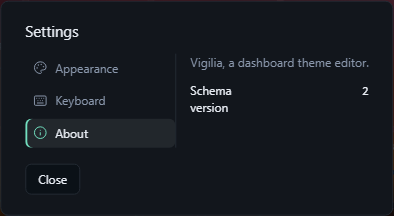
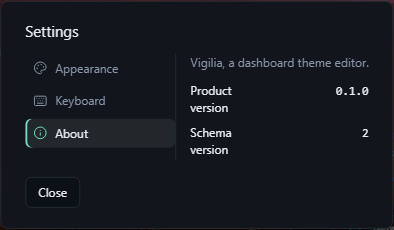
fix(editor): the chip loses its unsaved marker, and one manifest owns the version
vg-223: the identity chip's "Unsaved changes" marker is gone and the coloured
indicator dot stays. The marker was the chip's only non-shrinkable child besides
the dot, so it set the chip's floor while the name is the only child that can
shrink with it.

Measured on the built bundle BEFORE the change, at 640x360 CSS px with the
longest name the document field carries: chip 134.4px, name already truncated to
4.2px, marker 84.6px and fitting with 5.8px to spare — so the clip the row
describes does not reproduce at 640x360 today. It reproduces one step narrower,
at 560x360: chip 54.4px, name 0px, marker painted to 65px past the chip's right
edge and cut mid-word by the existing `overflow: hidden`. After the change the
same 560x360 read gives the name 16.8px and no overflow, and at 640x360 the name
goes from 4.2px to 96.8px. `overflow: hidden` stays: the row rules that it is
containment, not surface.

vg-279: the product's version is "0.1.0" and `src/web/package.json` owns it.

THE DECISION, because the row's premise was false as written. Reproduced: every
manifest in the workspace reads 0.0.0 — `src/web/package.json` and all seven
packages — and there is no root manifest. The only real version string in the
tree was the host's hardcoded `const VERSION = "0.1.0"` at
`packages/host/src/main.ts:34`. So the product version had to be chosen before it
could be given an owner, and the smallest change leaving one fact in one place is
[…]

diff --git a/src/web/packages/editor/src/editor-shell/settings.tsx b/src/web/packages/editor/src/editor-shell/settings.tsx
@@ -56,27 +56,40 @@ const PALETTE_GROUP_ID = "vigilia-settings-palette";
 /** One fact the About tab renders, identified by the id it renders it under so
  *  a test reads the row by what it is rather than by its position. */
 interface VersionFact {
-  readonly id: "schema-version" | "release-version";
+  readonly id: "product-version" | "schema-version" | "release-version";
   /** The fact's own value: the schema version is a number
-   *  (`SUPPORTED_SCHEMA_VERSION`), the release version a string. The tab
+   *  (`SUPPORTED_SCHEMA_VERSION`), the other two are strings. The tab
    *  stringifies where it renders. */
   readonly value: string | number;
 }
 
+/** Each fact's label, by the id it renders under. One owner of "what this row
+ *  is called": the release row keeps the Document pane's own word for that fact
+ *  (`panels.releaseVersion`), reused rather than respelled so one fact keeps one
+ *  word (§9). */
+const VERSION_FACT_LABELS: Readonly<Record<VersionFact["id"], string>> = {
+  "product-version": uiCopy.settings.aboutProductVersion,
+  "schema-version": uiCopy.settings.aboutSchemaVersion,
+  "release-version": uiCopy.panels.releaseVersion,
+};
+
 /** The version facts this build can honestly read, in the order they render.
  *
  *  **Every value is traceable to an owner**, which is what keeps the tab from
- *  inventing one: the schema version is `SUPPORTED_SCHEMA_VERSION`, the fact a
- *  reader supporting an old package needs, and the release version is the open
- *  document's own `metadata.version` — the same fact the Document pane's
- *  `releaseVersion` row reads. A document that carries no release version (a new
- *  or unsaved theme, or one whose stored version is empty) contributes no row:
- *  DESIGN.md §9's missing reading is a gap stated by absence, never a placeholder
- *  that could read as data. */
+ *  inventing one: the product version is the workspace manifest's `version`,
+ *  substituted here by Vite's `define` (the host reads the same field, so one
+ *  number has one home); the schema version is `SUPPORTED_SCHEMA_VERSION`, the
+ *  fact a reader supporting an old package needs; and the release version is the
+ *  open document's own `metadata.version` — the same fact the Document pane's
+ *  `releaseVersion` row reads, and never the product's. A document that carries
+ *  no release version (a new or unsaved theme, or one whose stored version is
+ *  empty) contributes no row: DESIGN.md §9's missing reading is a gap stated by
+ *  absence, never a placeholder that could read as data. */
 export function versionFacts(
   releaseVersion: string | undefined,
 ): readonly VersionFact[] {
   const facts: VersionFact[] = [
+    { id: "product-version", value: __VIGILIA_VERSION__ },
     { id: "schema-version", value: SUPPORTED_SCHEMA_VERSION },
   ];
   if (releaseVersion !== undefined && releaseVersion !== "") {
@@ -235,11 +248,7 @@ function AboutTab({
       <dl>
         {versionFacts(releaseVersion).map((fact) => (
           <div key={fact.id}>
-            <dt>
-              {fact.id === "schema-version"
-                ? uiCopy.settings.aboutSchemaVersion
-                : uiCopy.panels.releaseVersion}
-            </dt>
+            <dt>{VERSION_FACT_LABELS[fact.id]}</dt>
             <dd
               className="font-mono text-text"
               data-vigilia-about-fact={fact.id}

diff --git a/src/web/packages/editor/src/editor-shell/settings.dom.test.tsx b/src/web/packages/editor/src/editor-shell/settings.dom.test.tsx
@@ -578,10 +578,11 @@ describe("Settings", () => {
 });
 
 /** §7's About tab. The rule that matters is that every string is traceable to
- *  an owner — the schema version to `SUPPORTED_SCHEMA_VERSION`, the release
- *  version to the open document — and the tab invents none. The harness drives
- *  the prop the shell fills from its snapshot, so what is proven here is the
- *  tab's rendering, not a copy of the bridge. */
+ *  an owner — the product version to the workspace manifest's `version`, the
+ *  schema version to `SUPPORTED_SCHEMA_VERSION`, the release version to the open
+ *  document — and the tab invents none. The harness drives the prop the shell
+ *  fills from its snapshot, so what is proven here is the tab's rendering, not a
+ *  copy of the bridge. */
 describe("About", () => {
   it("shows the version facts the build owns, and invents none", async () => {
     // A version a hand-typed literal would not produce, so a literal in the tab
@@ -592,10 +593,14 @@ describe("About", () => {
     await openTab(uiCopy.settings.about);
 
     expect(versionFacts(released)).toEqual([
+      { id: "product-version", value: __VIGILIA_VERSION__ },
       { id: "schema-version", value: SUPPORTED_SCHEMA_VERSION },
       { id: "release-version", value: released },
     ]);
     // And what the tab renders is those facts, each string on its own owner.
+    expect(aboutField("product-version")?.textContent).toBe(
+      __VIGILIA_VERSION__,
+    );
     expect(aboutField("schema-version")?.textContent).toBe(
       String(SUPPORTED_SCHEMA_VERSION),
     );
@@ -615,13 +620,18 @@ describe("About", () => {
     await press(gear(host));
     await openTab(uiCopy.settings.about);
 
-    // The schema version is this build's own fact and is always shown.
+    // The product and schema versions are this build's own facts and are always
+    // shown.
+    expect(aboutField("product-version")?.textContent).toBe(
+      __VIGILIA_VERSION__,
+    );
     expect(aboutField("schema-version")?.textContent).toBe(
       String(SUPPORTED_SCHEMA_VERSION),
     );
     // The release version is absent, and absence is a gap stated by rendering
     // nothing — never `panels.notSet`, never a dash that could read as data.
     expect(versionFacts(undefined)).toEqual([
+      { id: "product-version", value: __VIGILIA_VERSION__ },
       { id: "schema-version", value: SUPPORTED_SCHEMA_VERSION },
     ]);
     expect(aboutField("release-version")).toBeNull();

diff --git a/src/web/packages/editor/src/editor-shell/document-identity.dom.test.tsx b/src/web/packages/editor/src/editor-shell/document-identity.dom.test.tsx
@@ -117,9 +117,12 @@ describe("the document's identity", () => {
   });
 
   it("reads the edited state from the same fact the status bar reads", () => {
-    // One fact, two readings: the cluster's dot and word, and `SaveState` in
-    // the status bar, are all `isDirty()`. Rendering both against one session
-    // is what says so — a second source would show one dirty and one clean.
+    // One fact, two readings: the cluster's dot and `SaveState` in the status
+    // bar are both `isDirty()`. Rendering both against one session is what says
+    // so — a second source would show one dirty and one clean. The chip's word
+    // was a third reading, and the one part that could not shrink with the name,
+    // so `vg-223` removed it: the marker is asserted absent at both states,
+    // which is what reddens if it is ever put back.
     let saved = true;
     const session = stubSession(() => !saved);
     const store = new SelectionStore();
@@ -135,21 +138,24 @@ describe("the document's identity", () => {
     );
     const chip = (): Element | null =>
       mounted.querySelector(".editor-shell-identity");
-    const edited = (): string =>
-      mounted.querySelector(".editor-shell-identity-edited")?.textContent ?? "";
+    const dot = (): Element | null =>
+      mounted.querySelector(".editor-shell-identity-dot");
+    const edited = (): Element | null =>
+      mounted.querySelector(".editor-shell-identity-edited");
     const saveState = (): string =>
       mounted.querySelector(".editor-shell-save-state")?.textContent ?? "";
 
     expect(chip()?.getAttribute("data-dirty")).toBe("false");
-    expect(edited()).toBe("");
+    expect(dot()).not.toBeNull();
+    expect(edited()).toBeNull();
     expect(saveState()).toBe("");
 
     saved = false;
     act(() => session.announce());
 
     expect(chip()?.getAttribute("data-dirty")).toBe("true");
-    expect(edited()).toBe("Unsaved changes");
-    expect(edited()).toBe(uiCopy.saveState.unsaved);
+    expect(dot()).not.toBeNull();
+    expect(edited()).toBeNull();
     expect(saveState()).toBe(uiCopy.saveState.unsaved);
   });
 });

diff --git a/src/web/packages/editor/src/editor-shell/document-identity.tsx b/src/web/packages/editor/src/editor-shell/document-identity.tsx
@@ -1,5 +1,4 @@
 import { useCallback, useSyncExternalStore } from "react";
-import { uiCopy } from "../ui-copy.js";
 import type { SelectionStore } from "./shell-stores.js";
 
 /**
@@ -9,9 +8,11 @@ import type { SelectionStore } from "./shell-stores.js";
  * The name reaches it through the shell's snapshot — the bridge's own
  * projection — so a late-set bridge arrives here the same way it arrives at
  * the inspector and the menus. The edited state is read from the session's
- * `isDirty()`, the one fact the status bar's `SaveState` already reads: the
- * dot's role and the word are two readings of that single fact, never a second
- * copy of it that could disagree.
+ * `isDirty()`, the one fact the status bar's `SaveState` already reads: the dot
+ * is this surface's reading of that fact, never a second copy of it that could
+ * disagree. The word is the status bar's alone — it was the chip's fixed part
+ * and the one thing that could not shrink with the name, so at a squeezed width
+ * it overflowed the chip and was clipped mid-word (`vg-223`).
  *
  * Nothing renders while no document is open — `documentName` is `undefined`
  * then — because a chip invented for a document that is not there is a claim
@@ -49,14 +50,6 @@ export function DocumentIdentity({
       <span className="editor-shell-identity-name" title={documentName}>
         {documentName}
       </span>
-      {/* Only while it says something: an always-present span is a flex item
-          that contributes the row's gap and nothing else, so the clean chip
-          carried a phantom 8px after the name. */}
-      {dirty ? (
-        <span className="editor-shell-identity-edited">
-          {uiCopy.saveState.unsaved}
-        </span>
-      ) : null}
     </p>
   );
 }

diff --git a/src/web/packages/editor/src/editor-shell/editor-shell.css b/src/web/packages/editor/src/editor-shell/editor-shell.css
@@ -2495,14 +2495,10 @@ body,
    cluster off the stage. */
 .editor-shell-identity {
   min-width: 0;
-  /* `min-width: 0` lets the chip shrink below the floor its non-shrinkable
-     children — the dot, the edited marker — set, so at a squeezed width the
-     trailing "Unsaved changes" used to paint past the chip's own edge and into
-     the view cluster. Clipping makes the chip's box the whole of what it draws,
-     which is §7.7's non-collision as a layout fact rather than a reserved
-     number. The name still ellipsises first: it is the only child that can
-     shrink. Past that the name is zero and the fixed marker still overflows, so
-     the clip cuts it mid-word; that state is filed, not solved here (`vg-223`). */
+  /* `min-width: 0` lets the chip shrink below its content, and the name is the
+     only child that can shrink with it, so this clip is a backstop rather than
+     a state the chip reaches: the fixed "Unsaved changes" marker it used to
+     hold was the part that could not shrink, and `vg-223` removed it. */
   overflow: hidden;
   margin: 0;
   display: flex;
@@ -2537,15 +2533,6 @@ body,
   color: var(--text);
   font-size: var(--text-sm);
   line-height: var(--text-sm--line-height);
-}
-/* The word the status bar's `SaveState` also shows, and reads from the same
-   `isDirty()`; `nowrap` so a name ellipsises before this does. */
-.editor-shell-identity-edited {
-  flex: none;
-  white-space: nowrap;
-  color: var(--warn);
-  font-size: var(--text-xs);
-  line-height: var(--text-xs--line-height);
 }
 .editor-shell-stage #canvas-host {
   position: absolute;

diff --git a/src/web/packages/host/src/main.ts b/src/web/packages/host/src/main.ts
@@ -1,3 +1,4 @@
+import { readFileSync } from "node:fs";
 import path from "node:path";
 import { fileURLToPath } from "node:url";
 import { DEFAULT_HOST, isLoopbackHost, parseArgs } from "./cli/args.js";
@@ -31,11 +32,24 @@ function style(code: string, text: string): string {
   return process.stdout.isTTY ? `\u001b[${code}m${text}\u001b[0m` : text;
 }
 
-const VERSION = "0.1.0";
+/** This module's own directory: `dist/` in the built host, `src/` under test.
+ *  Both sit at the same depth below the workspace root, which is why the two
+ *  paths below resolve the same way from either. */
+const here = path.dirname(fileURLToPath(import.meta.url));
+
+const VERSION = productVersion();
+
+/** The product's version, read from the workspace manifest — the one place a
+ *  release writes it (`vg-279`). The editor bundle reads the same field through
+ *  Vite's `define`, so neither reader carries a copy of the number. */
+function productVersion(): string {
+  const manifest = path.join(here, "..", "..", "..", "package.json");
+  return (JSON.parse(readFileSync(manifest, "utf8")) as { version: string })
+    .version;
+}
 
 /** The staged LibreHardwareMonitor, for setup commands that need a default. */
 function defaultLhmExecutable(): string {
-  const here = path.dirname(fileURLToPath(import.meta.url));
   return path.join(here, "..", "vendor", "lhm", "LibreHardwareMonitor.exe");
 }
 

diff --git a/src/web/packages/editor/src/ui-copy.ts b/src/web/packages/editor/src/ui-copy.ts
@@ -118,10 +118,12 @@ export const uiCopy = {
     about: "About",
     close: "Close",
     /** §7's About tab: what the editor is, and the facts this build can read.
-     *  The provenance is one sentence naming the product; the release fact's
-     *  *label* is the Document pane's own word (`panels.releaseVersion`),
-     *  reused rather than respelled so one fact keeps one word (§9). */
+     *  The provenance is one sentence naming the product; the three fact labels
+     *  say which fact each row is, and the release fact's *label* is the
+     *  Document pane's own word (`panels.releaseVersion`), reused rather than
+     *  respelled so one fact keeps one word (§9). */
     aboutProvenance: "Vigilia, a dashboard theme editor.",
+    aboutProductVersion: "Product version",
     aboutSchemaVersion: "Schema version",
     /** §7's Appearance tab. `palette` is the name the header chip's trigger
         already used for this same choice — the trigger said

diff --git a/src/web/tests/e2e/design-language-layout.spec.ts b/src/web/tests/e2e/design-language-layout.spec.ts
@@ -474,6 +474,13 @@ test("captures the settings modal's three tabs in the design language", async ({
   await expect(
     dialog.locator('[data-vigilia-about-fact="schema-version"]'),
   ).toHaveText(/\S/);
+  // The product version is the workspace manifest's, injected by Vite's `define`
+  // at build time, so a bundle built without that step shows no version at all —
+  // asserted as a version shape rather than as "some text", which `undefined`
+  // would satisfy (`vg-279`).
+  await expect(
+    dialog.locator('[data-vigilia-about-fact="product-version"]'),
+  ).toHaveText(/^\d+\.\d+\.\d+/);
   // **The release row must be absent, and this assertion is what says so.** It
   // renders only where the open document carries `metadata.version`
   // (`settings.tsx`'s `versionFacts`), and no document this suite can load has

diff --git a/src/web/packages/editor/vite.config.ts b/src/web/packages/editor/vite.config.ts
@@ -1,8 +1,19 @@
+import { readFileSync } from "node:fs";
 import { fileURLToPath } from "node:url";
 import tailwindcss from "@tailwindcss/vite";
 import { defineConfig } from "vite";
 
+/** The product's version, read from the workspace manifest — the one place a
+ *  release writes it — and injected as a constant so the About tab can name it
+ *  with no module to import it from and no second copy to forget (`vg-279`).
+ *  `vitest.config.ts` injects the same constant for the unit suite, which does
+ *  not build through this file. */
+const { version } = JSON.parse(
+  readFileSync(new URL("../../package.json", import.meta.url), "utf8"),
+) as { version: string };
+
 export default defineConfig({
+  define: { __VIGILIA_VERSION__: JSON.stringify(version) },
   plugins: [tailwindcss()],
   resolve: {
     alias: {

diff --git a/src/web/vitest.config.ts b/src/web/vitest.config.ts
@@ -1,7 +1,17 @@
+import { readFileSync } from "node:fs";
 import { fileURLToPath } from "node:url";
 import { defineConfig } from "vitest/config";
 
+/** The product's version, injected the same way `packages/editor/vite.config.ts`
+ *  injects it for the built bundle. The unit suite does not build through that
+ *  file, so without this the editor source's `__VIGILIA_VERSION__` would be an
+ *  unresolved global (`vg-279`). */
+const { version } = JSON.parse(
+  readFileSync(new URL("./package.json", import.meta.url), "utf8"),
+) as { version: string };
+
 export default defineConfig({
+  define: { __VIGILIA_VERSION__: JSON.stringify(version) },
   // shadcn's convention, matched to the editor's own vite alias so a component
   // written for the app resolves in tests too.
   resolve: {

diff --git a/src/web/packages/editor/src/product-version.d.ts b/src/web/packages/editor/src/product-version.d.ts
@@ -1,0 +1,9 @@
+/**
+ * The product's version, substituted by Vite's `define` at build time from the
+ * workspace manifest (`src/web/package.json`) — see this package's
+ * `vite.config.ts`, and the root `vitest.config.ts`, which injects the same
+ * constant because the unit suite does not build through that file. Declared
+ * here so the editor source can name it without a module to import it from
+ * (`vg-279`).
+ */
+declare const __VIGILIA_VERSION__: string;

diff --git a/docs/architecture/ownership.md b/docs/architecture/ownership.md
@@ -167,6 +167,7 @@ adapter does not own catalog, preview or adoption semantics.
 | **What a valid object name is** — the emptiness and length rule two rename writers must agree on | `renderer-core/src/theme/object-name.ts` (`isObjectName`) |
 | **The shape an asset path must have** — the pattern it must match, hand-spelled a second time outside this module | `renderer-core/src/theme/document.ts` (`ASSET_PATH_PATTERN`) |
 | Provider contract | `host/src/providers/provider.ts` |
+| **The product's version** — one number for the host CLI and the editor bundle alike, in the manifest a release already edits; the host reads it at run time and the editor's bundle is given it by Vite's `define` (`vg-279`) | `src/web/package.json` (`version`) |
 
 ### Fabric renderer
 
